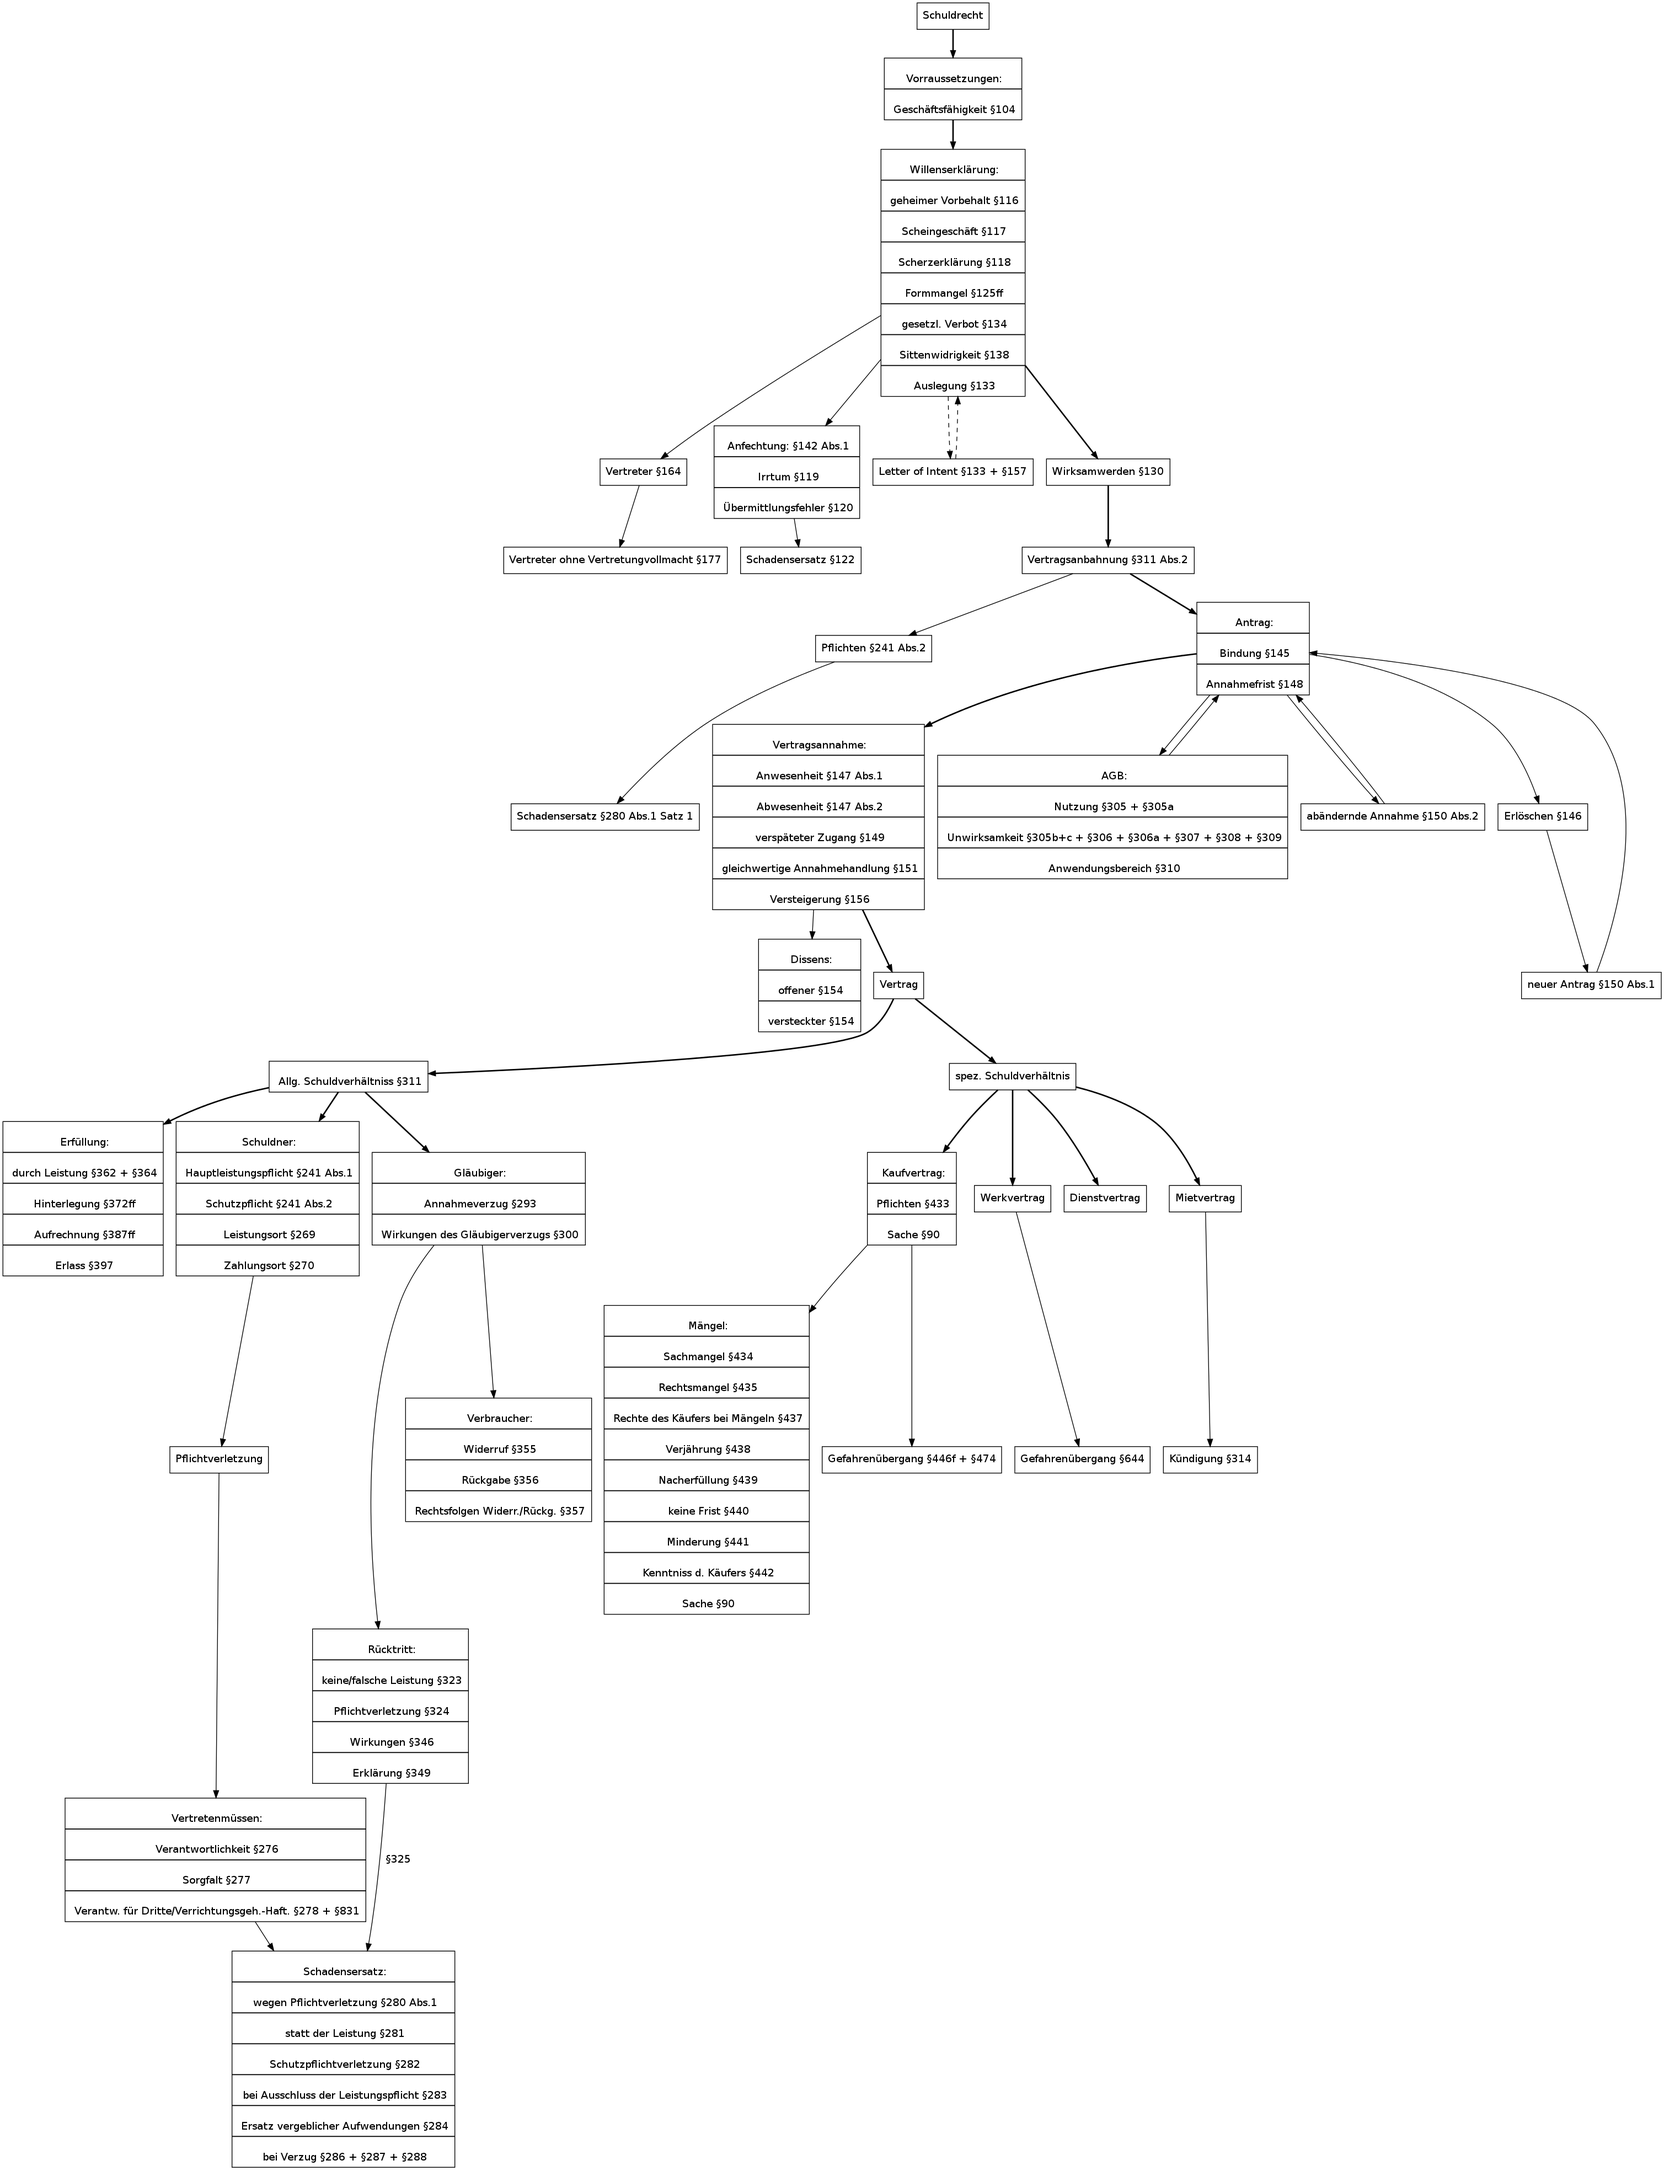
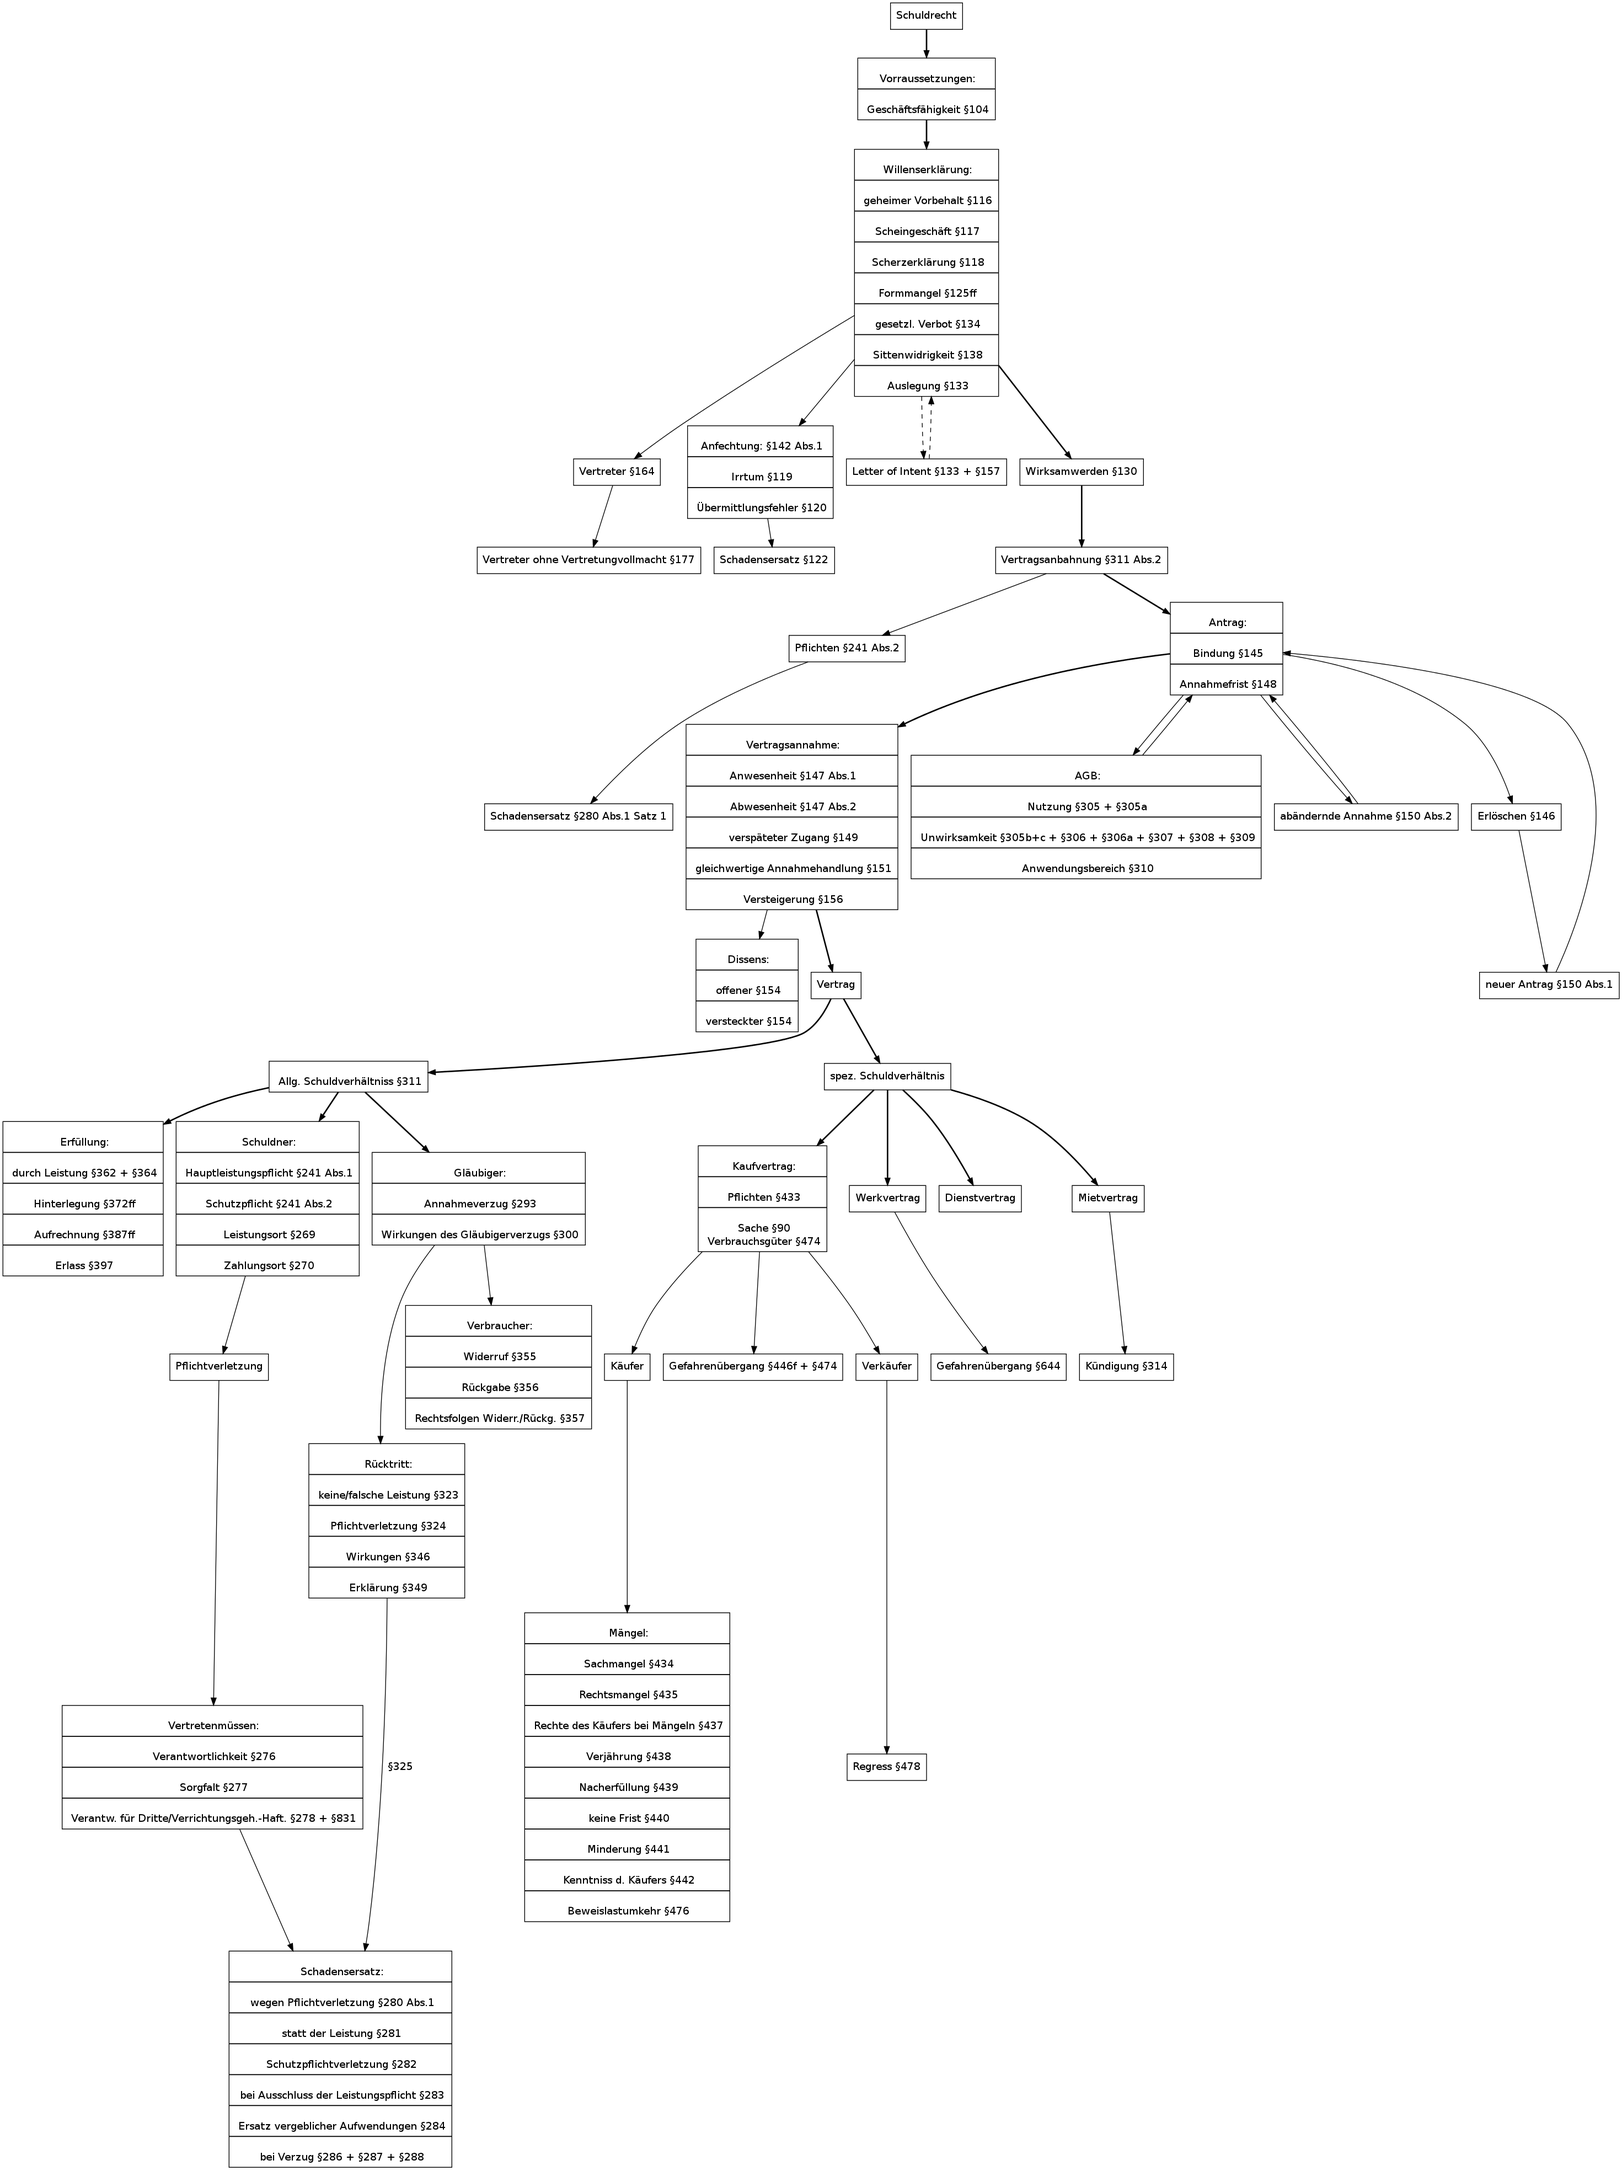
kv fertig

diff --git a/graph.rb b/graph.rb
@@ -113,7 +113,9 @@ spez_schuldverh = g.add_nodes("spez. Schuldverhältnis")
 kv = g.add_nodes( "Kaufvertrag", "shape" => "record", "label" => "{
   Kaufvertrag: |
   Pflichten §433 |
-  Sache §90}")
+  Sache §90
+  Verbrauchsgüter §474}")
+kv_kaeufer = g.add_nodes("Käufer")
 kv_maengel = g.add_nodes( "Mängel", "shape" => "record", "label" => "{
   Mängel: |
   Sachmangel §434 |
@@ -124,8 +126,10 @@ kv_maengel = g.add_nodes( "Mängel", "shape" => "record", "label" => "{
   keine Frist §440 |
   Minderung §441 |
   Kenntniss d. Käufers §442 |
-  Sache §90}")
+  Beweislastumkehr §476}")
 kv_gefahr = g.add_nodes("Gefahrenübergang §446f + §474")
+kv_verkaeufer = g.add_nodes("Verkäufer")
+kv_regress = g.add_nodes("Regress §478")
 
 wv = g.add_nodes( "Werkvertrag" )
 wv_gefahr = g.add_nodes("Gefahrenübergang §644")
@@ -175,8 +179,11 @@ g.add_edges( schuldner_pflichtverl, schuldner_verantw )
 g.add_edges( schuldner_verantw, schuldner_schadensers )
 
 g.add_edges( spez_schuldverh, kv , "style" => "bold")
-g.add_edges( kv, kv_maengel)
+g.add_edges( kv, kv_kaeufer)
+g.add_edges( kv, kv_verkaeufer)
+g.add_edges( kv_kaeufer, kv_maengel)
 g.add_edges( kv, kv_gefahr)
+g.add_edges( kv_verkaeufer, kv_regress)
 
 g.add_edges( spez_schuldverh, wv , "style" => "bold")
 g.add_edges( wv, wv_gefahr)
